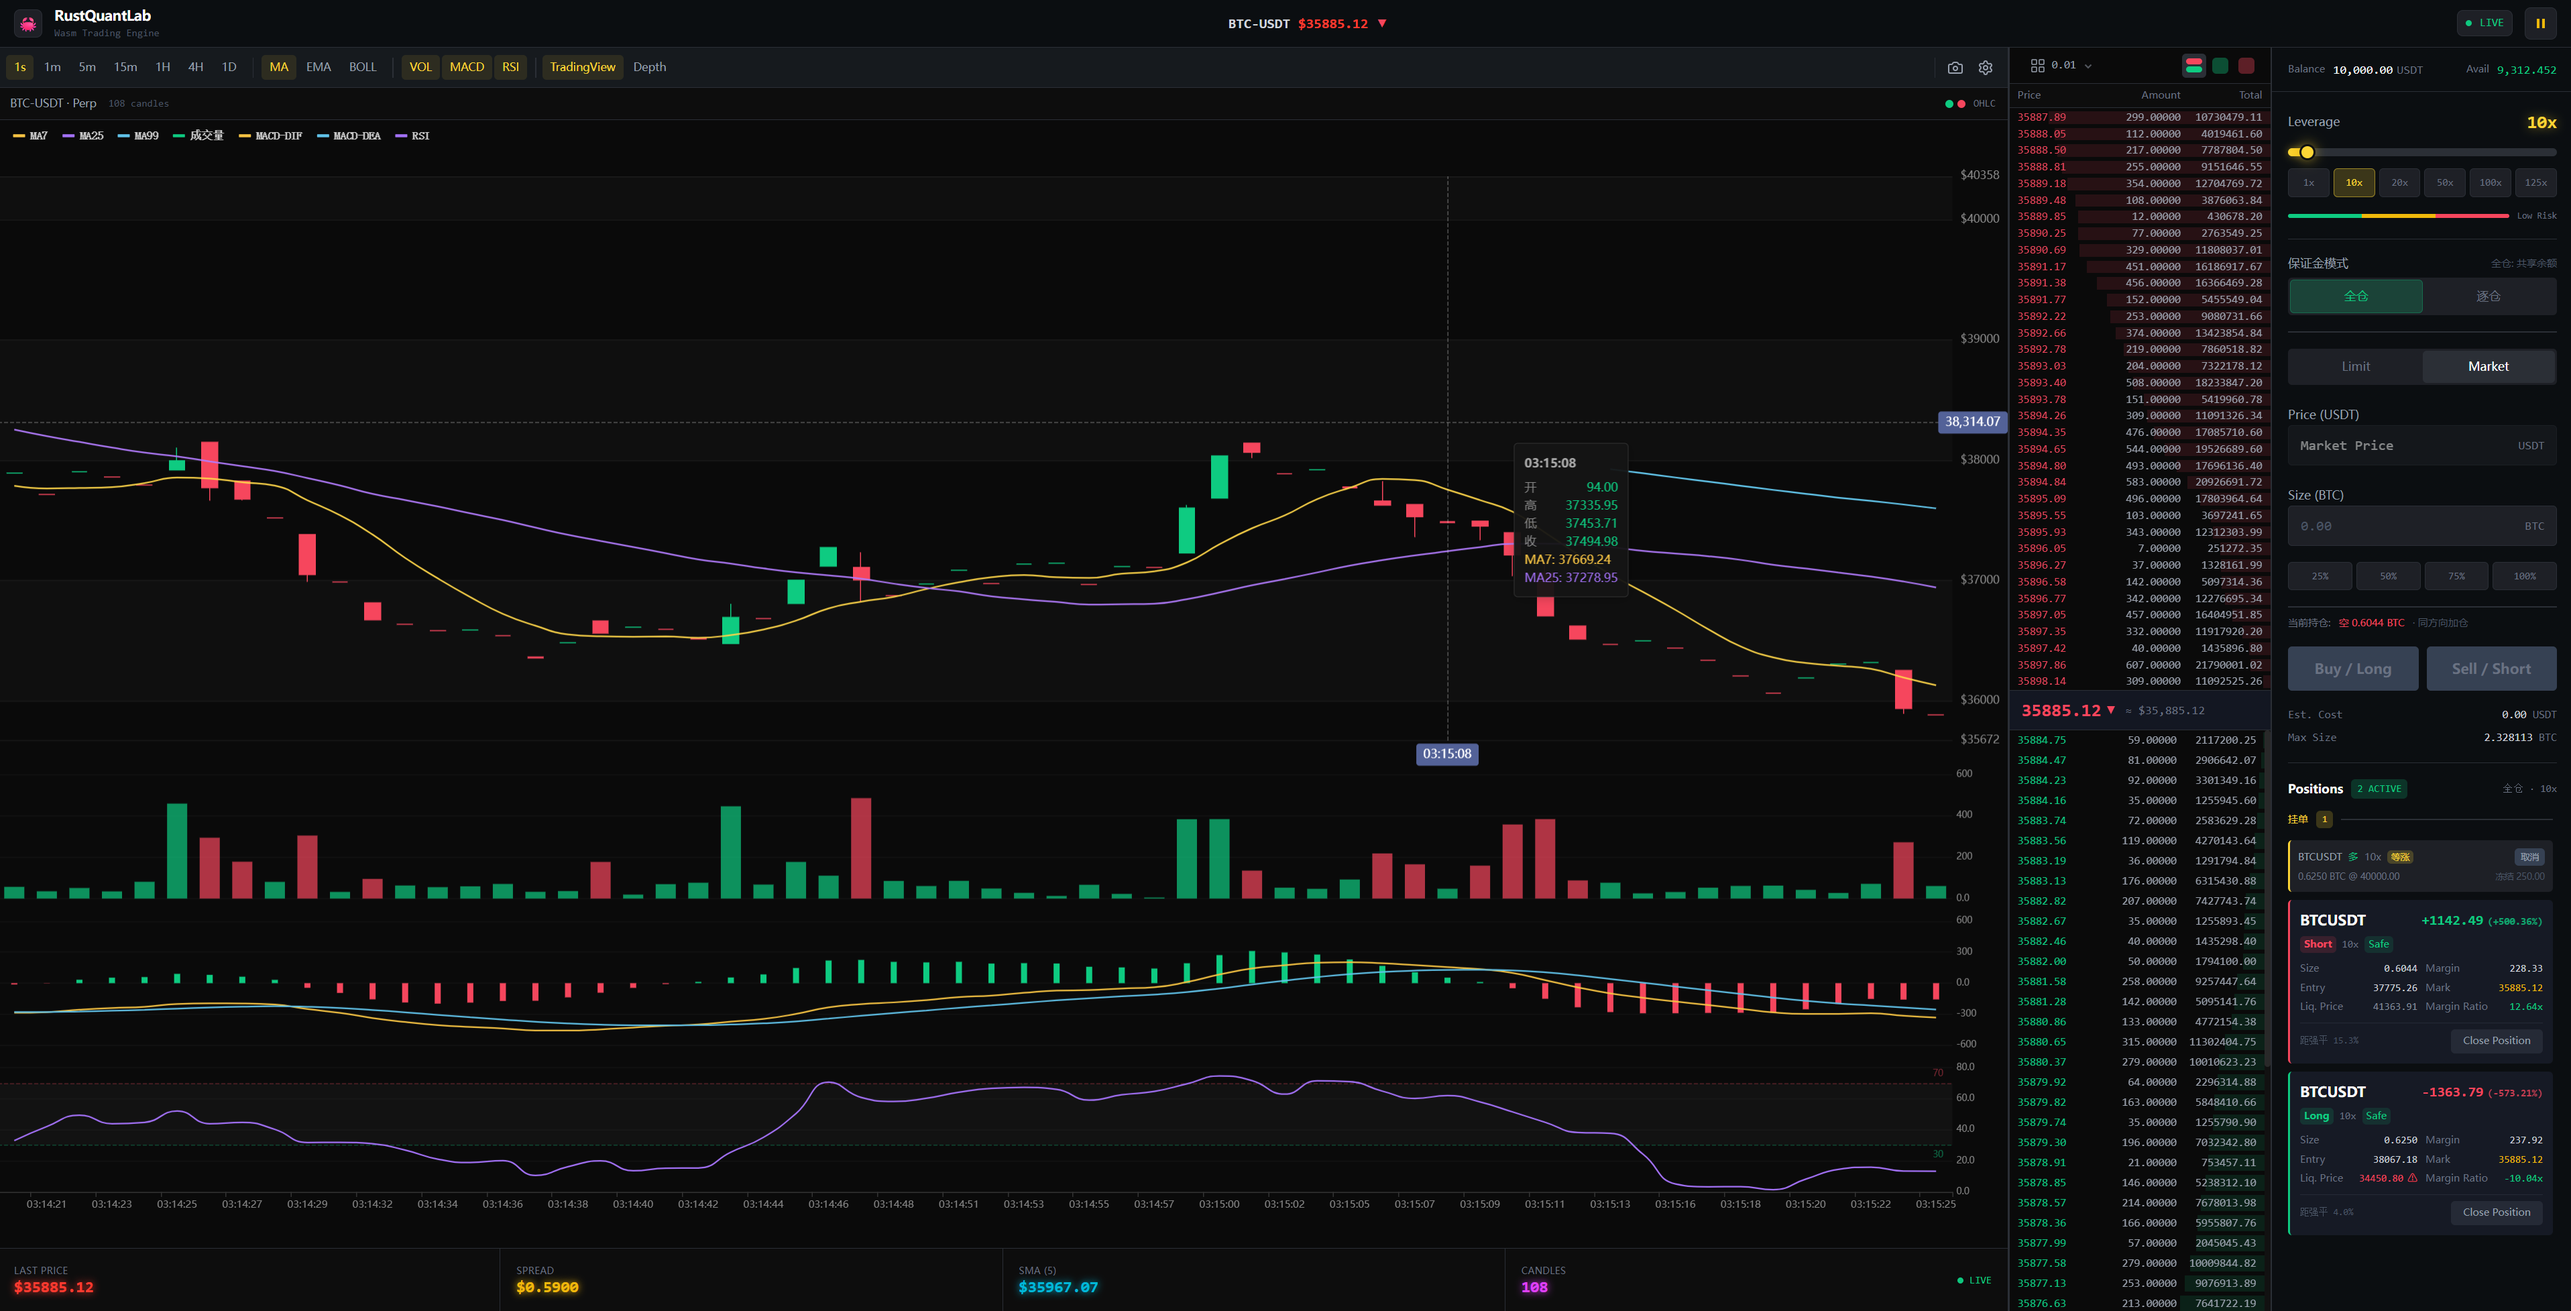
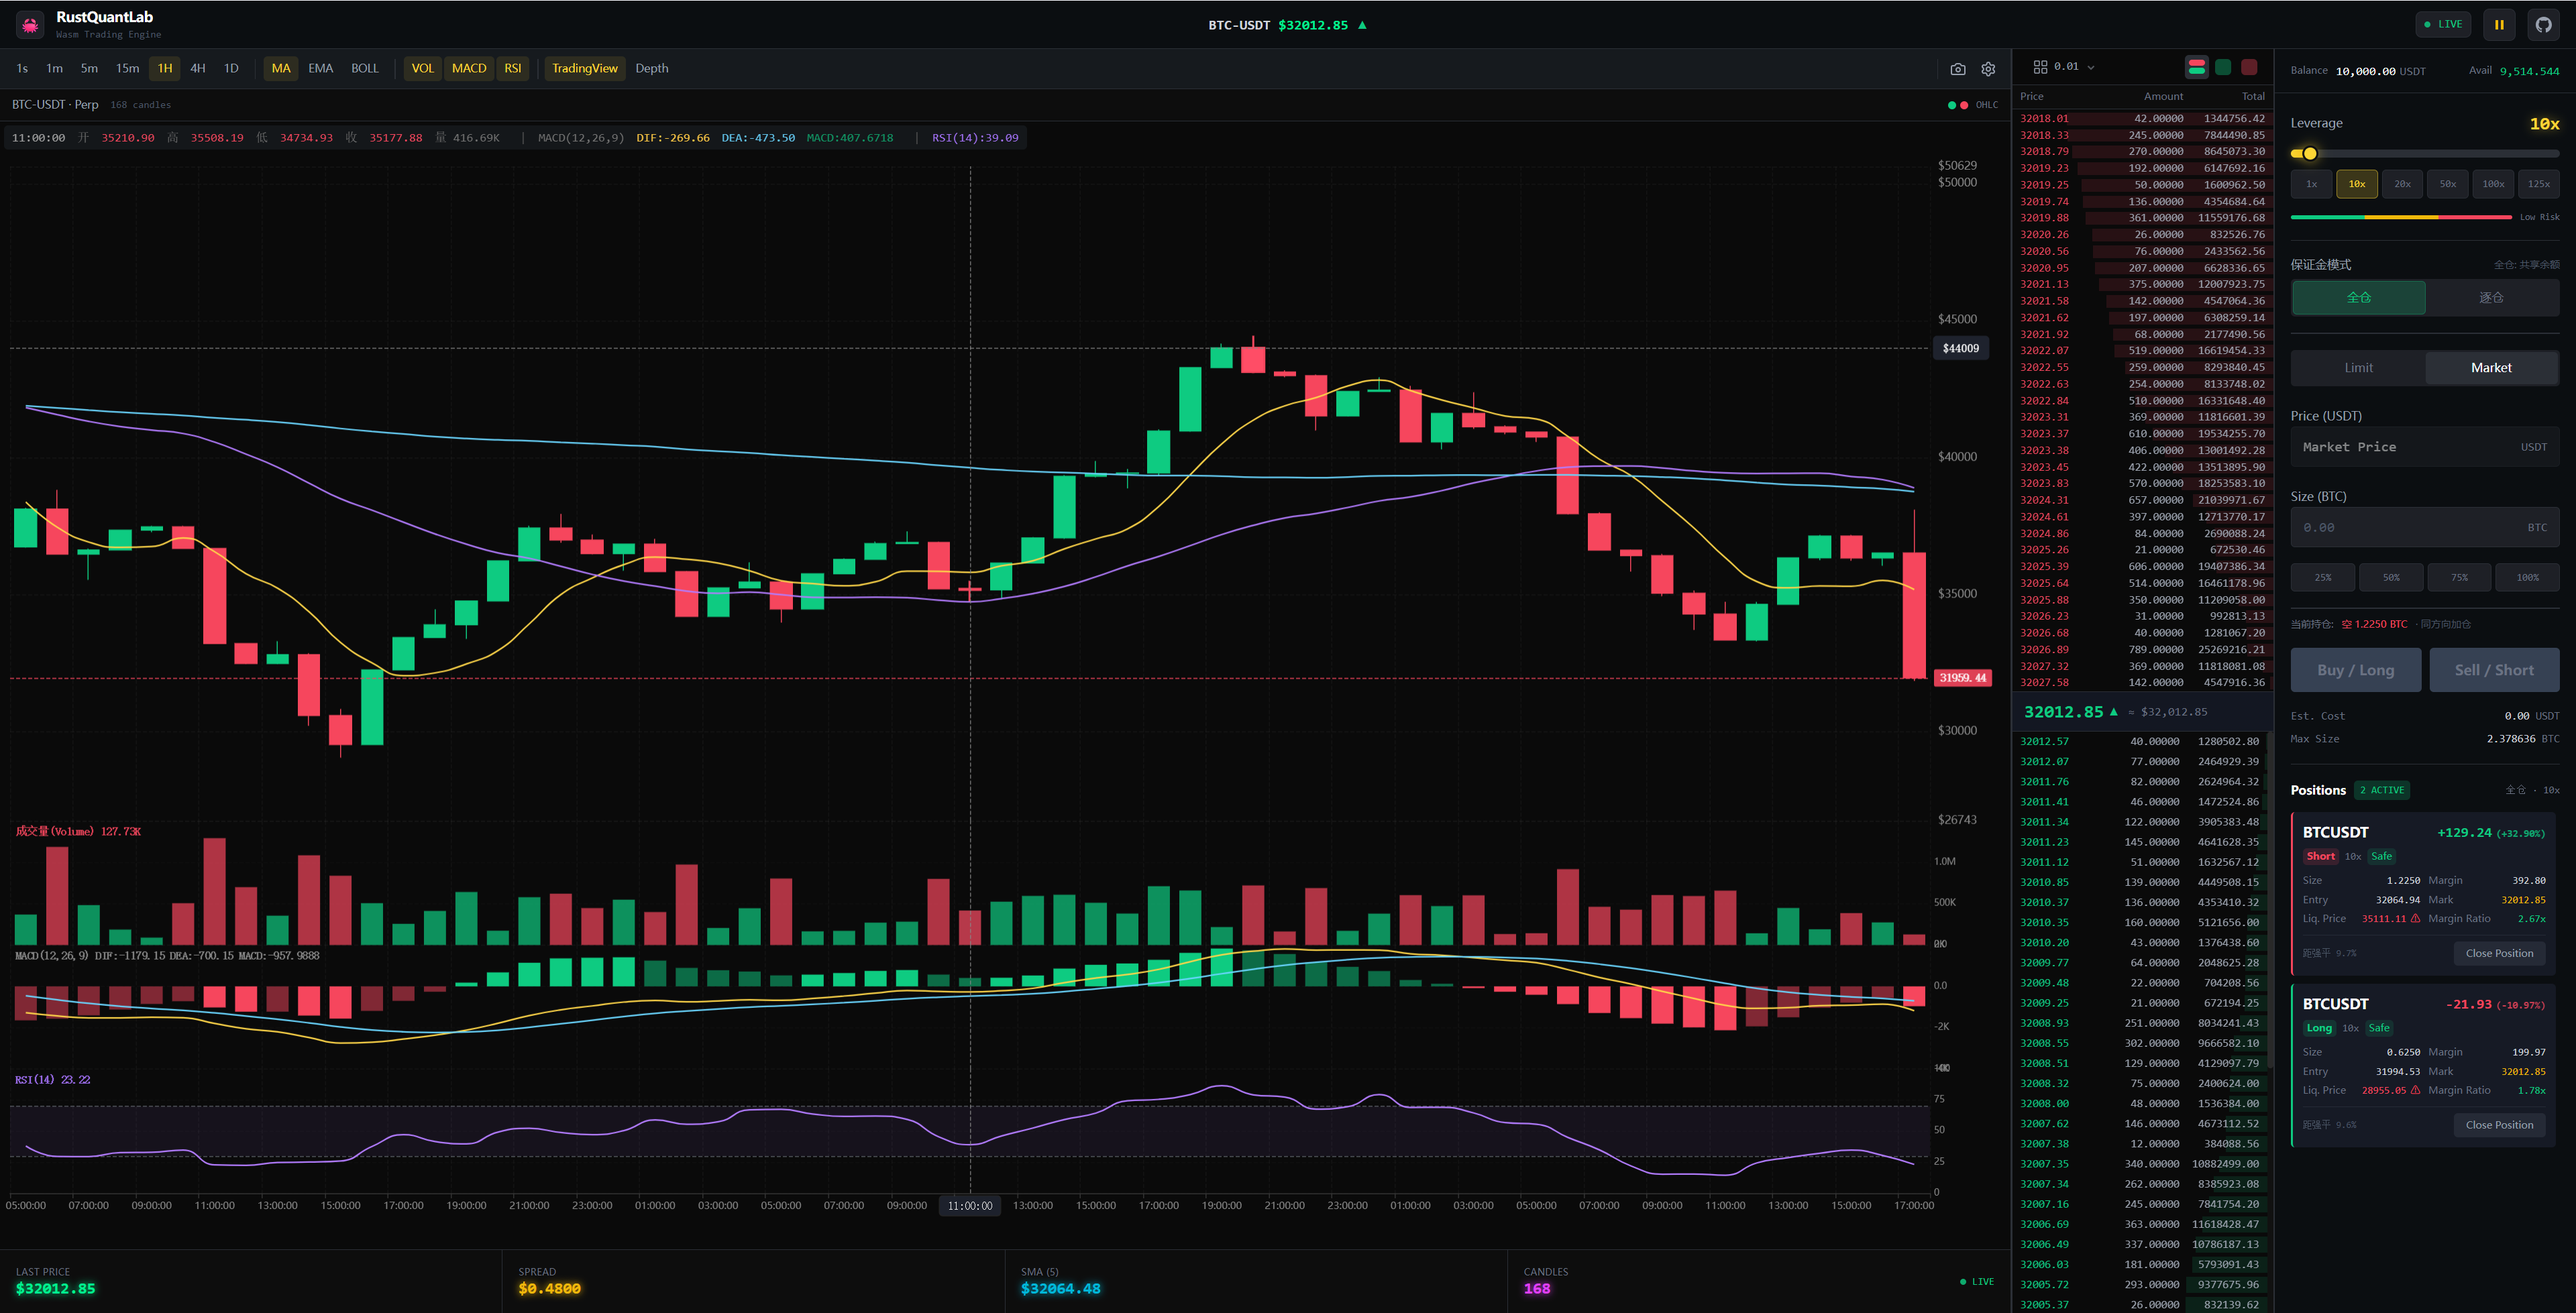
fix

diff --git a/src/components/Layout/Header.tsx b/src/components/Layout/Header.tsx
@@ -29,6 +29,18 @@ function PauseIcon({ className }: { className?: string }) {
   );
 }
 
+function GitHubIcon({ className }: { className?: string }) {
+  return (
+    <svg
+      className={`shrink-0 ${className ?? ''}`}
+      viewBox="0 0 24 24"
+      fill="currentColor"
+    >
+      <path d="M12 0c-6.626 0-12 5.373-12 12 0 5.302 3.438 9.8 8.207 11.387.599.111.793-.261.793-.577v-2.234c-3.338.726-4.033-1.416-4.033-1.416-.546-1.387-1.333-1.756-1.333-1.756-1.089-.745.083-.729.083-.729 1.205.084 1.839 1.237 1.839 1.237 1.07 1.834 2.807 1.304 3.492.997.107-.775.418-1.305.762-1.604-2.665-.305-5.467-1.334-5.467-5.931 0-1.311.469-2.381 1.236-3.221-.124-.303-.535-1.524.117-3.176 0 0 1.008-.322 3.301 1.23.957-.266 1.983-.399 3.003-.404 1.02.005 2.047.138 3.006.404 2.291-1.552 3.297-1.23 3.297-1.23.653 1.653.242 2.874.118 3.176.77.84 1.235 1.911 1.235 3.221 0 4.609-2.807 5.624-5.479 5.921.43.372.823 1.102.823 2.222v3.293c0 .319.192.694.801.576 4.765-1.589 8.199-6.086 8.199-11.386 0-6.627-5.373-12-12-12z" />
+    </svg>
+  );
+}
+
 /* ============================================
    Header Component
    ============================================ */
@@ -114,6 +126,17 @@ function Header({
             <PlayIcon className="w-3.5 h-3.5 md:w-4 md:h-4" />
           )}
         </button>
+
+        {/* GitHub 链接 */}
+        <a
+          href="https://github.com/Duri686/RustQuantLab"
+          target="_blank"
+          rel="noopener noreferrer"
+          className="w-7 h-7 md:w-8 md:h-8 rounded-md flex items-center justify-center transition-colors bg-[#1e2026] hover:bg-[#2b2f36] text-gray-400 hover:text-white border border-[#2b2f36]"
+          title="GitHub 仓库"
+        >
+          <GitHubIcon className="w-3.5 h-3.5 md:w-4 md:h-4" />
+        </a>
       </div>
     </header>
   );
